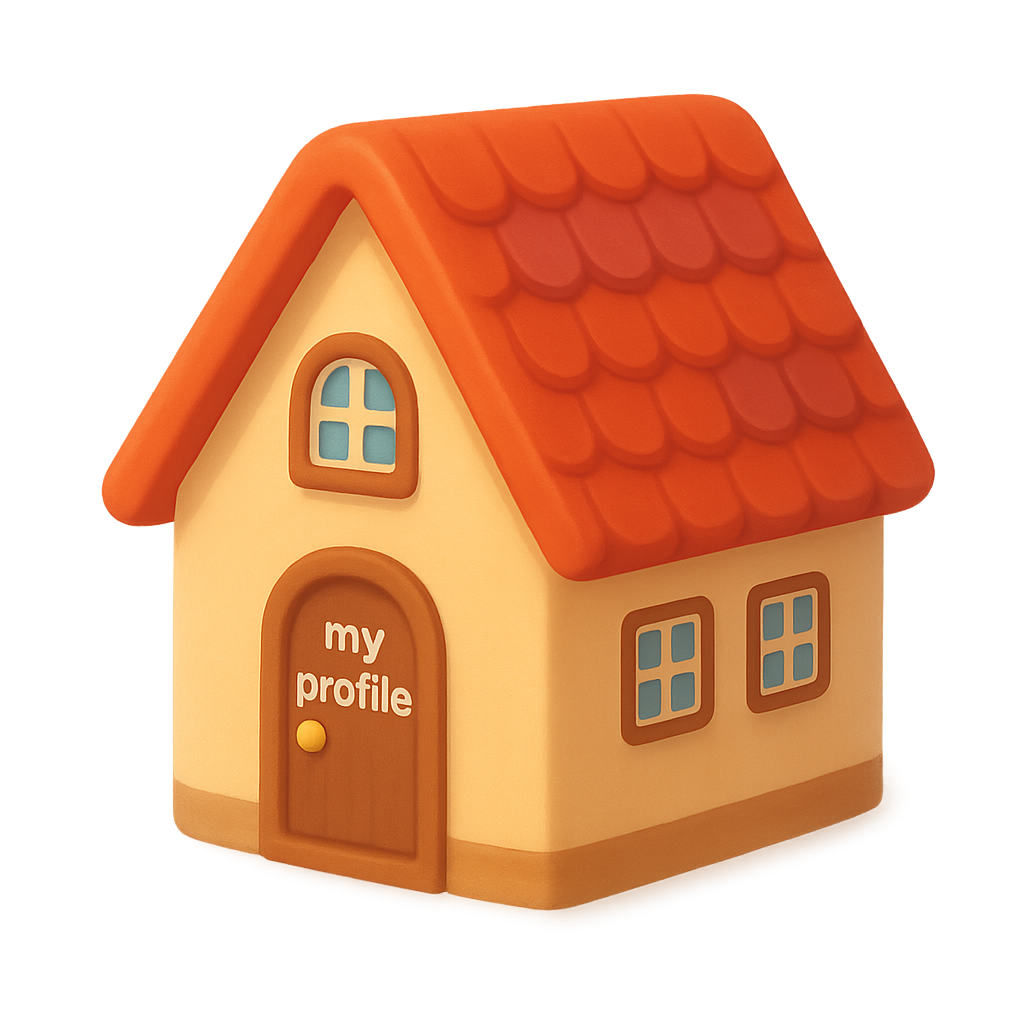
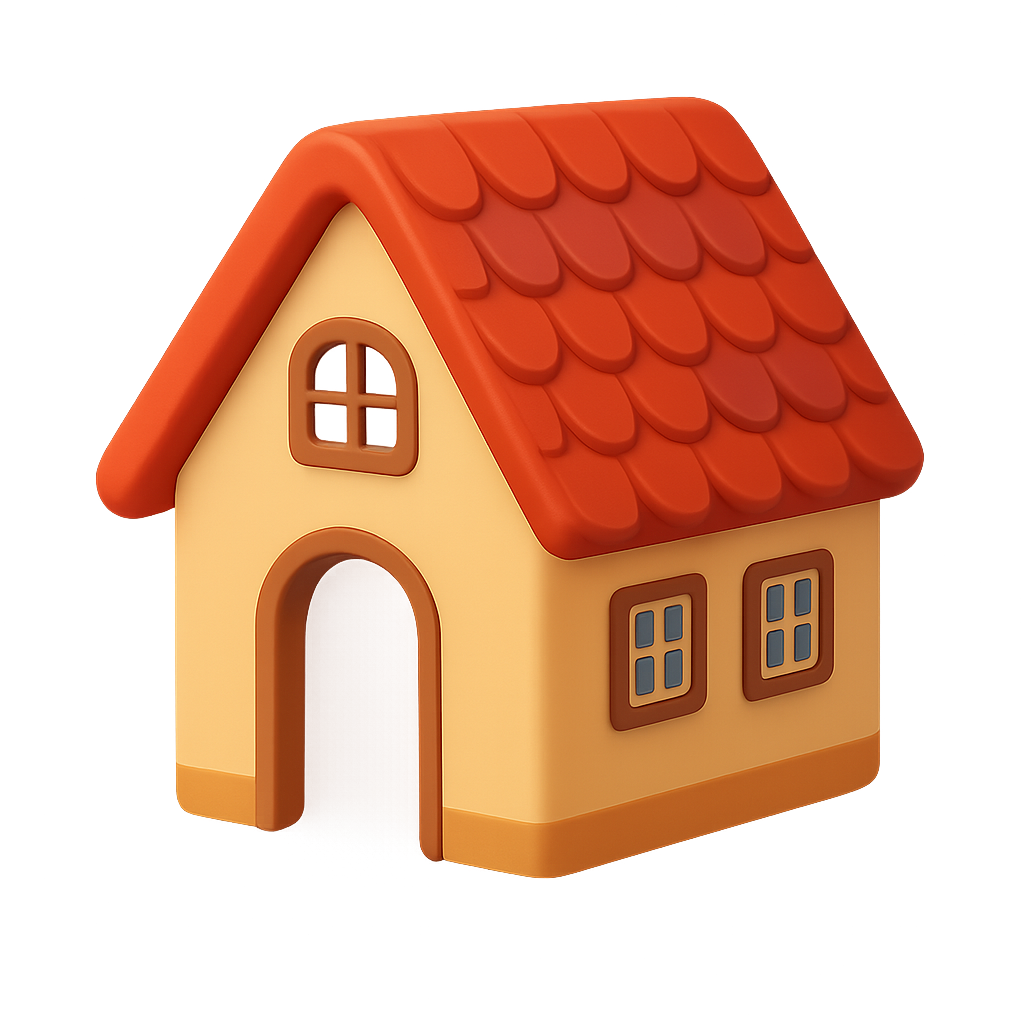
out of balloon to home

Changed region(s): [[0.0938, 0.0938, 0.9375, 0.9062], [0.5, 0.5938, 0.5625, 0.75], [0.5, 0.0938, 0.5312, 0.125]]

diff --git a/src/components/Home.jsx b/src/components/Home.jsx
@@ -19,6 +19,7 @@ const [bgStep, setBgStep] = useState(1); // เริ่มที่ภาพแ
 const [isMobile, setIsMobile] = useState(window.innerWidth <= 768);
 const [fadeMidFront, setFadeMidFront] = useState(false);
 const [showBalloon, setShowBalloon] = useState(true);
+const [isOpen, setIsOpen] = useState(false);
 
   useEffect(() => {
     const handleResize = () => {
@@ -380,18 +381,175 @@ setTimeout(() => setBgStep(3), 9000);
 )}
 
 {!showBalloon && (
+  <>
+    <img
+      src="/images/doll.png"
+      alt="doll"
+      className="doll"
+      style={{
+        position: 'fixed',
+        left: '-15%',
+        bottom: '-30%',
+        transform: 'scale(0.1)',
+        zIndex:'9',
+        cursor:'pointer'
+      }}
+    />
+    <img
+      src="/images/dog.png"
+      alt="Dog"
+      className="dog"
+      style={{
+        position: 'fixed',
+        left: '-18%',
+        bottom: '-31%',
+        transform: 'scale(0.07)',
+         zIndex:'9',
+        cursor:'pointer'
+      }}
+    />
+<div
+  className="house"
+  onMouseEnter={() => setIsOpen(true)}
+  onMouseLeave={() => setIsOpen(false)}
+  style={{
+    position: 'fixed',
+ left: '50%',
+bottom: '30%',
+    transform: 'scale(1)',
+    zIndex: 9,
+    cursor: 'pointer',
+  }}
+>
   <img
-    src="https://via.placeholder.com/150"
-    alt="KidTest"
+    src="/images/home.png"
+    alt="home"
+    className="house-body"
     style={{
-      position: 'fixed',
-      left: '50%',
-      bottom: '50%',
-      transform: 'translate(-50%, -50%)',
+      display: 'block',
     }}
   />
-)}
 
+  <img
+    src="/images/door.png"
+    alt="door"
+    className="house-door"
+    style={{
+      position: 'absolute',
+      bottom: '70px',
+      left: '105px',
+      width: '60px',
+      transformOrigin: 'left center',
+      transform: isOpen ? 'rotateY(-110deg)' : 'rotateY(-5)',
+      transition: 'transform 0.5s ease',
+      height:'120px'
+    }}
+  />
+</div>
+
+     <img
+      src="/images/resume.png"
+      alt="resume"
+      className="resume"
+      style={{
+        position: 'fixed',
+        left: '65%',
+        bottom: '-38%',
+        transform: 'scale(0.1)',
+         zIndex:'9',
+        cursor:'pointer'
+      }}
+    />
+   <img
+      src="/images/vegetable.png"
+      alt="vegetable"
+      className="vegetable"
+      style={{
+        position: 'fixed',
+        left: '3%',
+        bottom: '-25%',
+        transform: 'scale(0.2)',
+         zIndex:'9',
+        cursor:'pointer'
+      }}
+       />
+
+          <img
+      src="/images/carot.png"
+      alt="carot"
+      className="carot"
+      style={{
+        position: 'fixed',
+        left: '20%',
+        bottom: '-35%',
+        transform: 'scale(0.2)',
+         zIndex:'9',
+        cursor:'pointer'
+      }}
+       />
+       <img
+      src="/images/swing.png"
+      alt="swing"
+      className="swing"
+      style={{
+        position: 'fixed',
+        left: '-30%',
+        bottom: '0%',
+        transform: 'scale(0.2)',
+         zIndex:'9',
+        cursor:'pointer'
+      }}
+    />
+
+
+       <img
+      src="/images/rabbit.png"
+      alt="rabbit"
+      className="rabbit"
+      style={{
+        position: 'fixed',
+        left: '4%',
+        bottom: '-65%',
+        transform: 'scale(0.05)',
+         zIndex:'9',
+        cursor:'pointer'
+
+      }}
+    />
+
+    
+       <img
+      src="/images/other-house.png"
+      alt="other-house"
+      className="other-house"
+      style={{
+        position: 'fixed',
+        left: '15%',
+        bottom: '30%',
+        transform: 'scale(0.15)',
+         zIndex:'9',
+        cursor:'pointer'
+
+      }}
+    />
+
+      <img
+      src="/images/cow.png"
+      alt="cow"
+      className="cow"
+      style={{
+        position: 'fixed',
+        left: '0%',
+        bottom: '15%',
+        transform: 'scale(0.15)',
+         zIndex:'9',
+        cursor:'pointer'
+
+      }}
+    />
+
+  </>
+)}
 
 
     </div>

diff --git a/src/css/Home.css b/src/css/Home.css
@@ -124,3 +124,46 @@
 .zoom-fade-new.show {
   opacity: 1;
 }
+
+.home {
+ position: fixed;
+ left: 38%;
+bottom: -5%;
+transform: scale(0.4);
+z-index:9;
+cursor:pointer;
+
+}
+.house {
+  /* position: relative;
+  display: inline-block;
+  perspective: 800px; ให้มีมิติ */
+
+   position: fixed;
+ left: 38%;
+bottom: -5%;
+transform: scale(0.4);
+z-index:9;
+cursor:pointer;
+}
+
+.house-body {
+  display: block;
+  width: 400px; /* แล้วแต่ขนาดบ้าน */
+
+  
+}
+
+.house-door {
+  position: absolute;
+  bottom: 40px;  /* ปรับให้ประตูตรงช่อง */
+  left: 180px;
+  width: 60px;   /* ขนาดประตู */
+  height: auto;
+  transform-origin: left center; /* จุดหมุน: บานพับด้านซ้าย */
+  transition: transform 0.5s ease;
+}
+
+.house-door.open {
+  transform: rotateY(-100deg); /* หมุนออก */
+}
